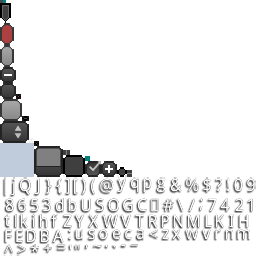
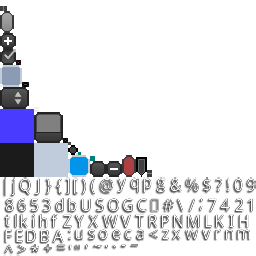
Added tweeting mechanic

diff --git a/core/src/com/martenscedric/Phone.java b/core/src/com/martenscedric/Phone.java
@@ -1,13 +1,16 @@
 package com.martenscedric;
 
 import com.badlogic.gdx.graphics.Texture;
-import com.badlogic.gdx.scenes.scene2d.Actor;
 import com.badlogic.gdx.scenes.scene2d.Stage;
 import com.badlogic.gdx.scenes.scene2d.ui.*;
 import com.badlogic.gdx.utils.Align;
 
+import java.io.BufferedReader;
+import java.io.FileReader;
+import java.io.IOException;
 import java.util.ArrayList;
 import java.util.List;
+import java.util.Random;
 
 import static com.martenscedric.GameManager.HEIGHT;
 import static com.martenscedric.GameManager.WIDTH;
@@ -16,14 +19,57 @@ public class Phone extends ScrollPane
 {
     private GameManager gameManager;
     private Table messageTable;
-    private List<Tweet> tweetList;
+    private List<Tweet> trumpTweets = new ArrayList<>();
+    private List<Tweet> kimTweets = new ArrayList<>();
+
+    private float heat = 0;
+    private float timeSinceLastTweet = 0;
 
     public Phone(GameManager gameManager, Skin skin) {
         super(new Table(skin), skin);
         this.gameManager = gameManager;
         this.messageTable = (Table) getActor();
-        this.tweetList = new ArrayList<>();
         this.setScrollingDisabled(true, false);
+
+        readTweetFile("trump.txt", trumpTweets);
+        readTweetFile("kim.txt", kimTweets);
+    }
+
+    public void update(float delta)
+    {
+        timeSinceLastTweet+=delta;
+        if(new Random().nextInt(60) == 0)
+            System.out.println(heat);
+
+        if(timeSinceLastTweet > 5 - heat * 2)
+        {
+            Author author = Author.values()[new Random().nextInt(2)];
+
+            if(author == Author.TRUMP)
+            {
+                List<Tweet> availableTweets = new ArrayList<>(trumpTweets);
+                availableTweets.removeIf(t -> t.getMinHeat() > heat);
+                System.out.println("Trump has " + availableTweets.size() + " available tweets!");
+
+                Tweet tweet = availableTweets.get(new Random().nextInt(availableTweets.size()));
+                trumpTweets.removeIf(t -> t.getTweetId() == tweet.getTweetId());
+
+                addTweet(tweet);
+                heat+=tweet.getGeneratedHeat();
+            }else{
+                List<Tweet> availableTweets = new ArrayList<>(kimTweets);
+                availableTweets.removeIf(t -> t.getMinHeat() > heat);
+                System.out.println("Kim has " + availableTweets.size() + " available tweets!");
+
+                Tweet tweet = availableTweets.get(new Random().nextInt(availableTweets.size()));
+                kimTweets.removeIf(t -> t.getTweetId() == tweet.getTweetId());
+
+                addTweet(tweet);
+                heat+=tweet.getGeneratedHeat();
+            }
+
+            timeSinceLastTweet = 0;
+        }
     }
 
     public void addTweet(Tweet tweet)
@@ -62,6 +108,7 @@ public class Phone extends ScrollPane
             this.lblText.setWidth(200);
             lblText.setAlignment(Align.bottomLeft);
             lblText.setX(100);
+            lblText.setHeight(lblText.getMinHeight());
         }
 
         @Override
@@ -74,6 +121,27 @@ public class Phone extends ScrollPane
         @Override
         public float getMinHeight() {
             return Math.max(lblText.getPrefHeight() + 50, profilePic.getImageHeight());
+        }
+    }
+
+
+    private void readTweetFile(String filename, List<Tweet> list)
+    {
+        int id = 0;
+        try {
+            BufferedReader br = new BufferedReader(new FileReader(filename));
+            String line = br.readLine();
+
+            while (line != null) {
+                Tweet tweet = new Tweet();
+                tweet.setAuthor(filename.equals("trump.txt") ? Author.TRUMP :Author.KIM);
+                tweet.setContents(line);
+                tweet.setTweetId(id++);
+                list.add(tweet);
+                line = br.readLine();
+            }
+        } catch (IOException e) {
+            e.printStackTrace();
         }
     }
 }

diff --git a/core/src/com/martenscedric/SteemitJam.java b/core/src/com/martenscedric/SteemitJam.java
@@ -3,12 +3,6 @@ package com.martenscedric;
 import com.badlogic.gdx.assets.AssetManager;
 import com.badlogic.gdx.graphics.Texture;
 
-import java.io.BufferedReader;
-import java.io.FileReader;
-import java.io.IOException;
-import java.util.ArrayList;
-import java.util.List;
-
 public class SteemitJam extends SceneManager {
 
 	private AssetManager assetManager;
@@ -24,19 +18,13 @@ public class SteemitJam extends SceneManager {
 		this.assetManager.load("art/phone-cover.png", Texture.class);
 		this.assetManager.load("art/switter-banner.png", Texture.class);
 
-		List<Tweet> trumpTweets = new ArrayList<>();
-		List<Tweet> kimTweets = new ArrayList<>();
-
-		readTweetFile("trump.txt", trumpTweets);
-		readTweetFile("kim.txt", kimTweets);
-
 		this.assetManager.finishLoading();
 
 		GameManager gameManager = new GameManager();
 		gameManager.assetManager = assetManager;
 		gameManager.sceneManager = this;
 
-		this.pushScreen(new PlayScreen(gameManager, trumpTweets, kimTweets));
+		this.pushScreen(new PlayScreen(gameManager));
 	}
 
 	@Override
@@ -47,30 +35,5 @@ public class SteemitJam extends SceneManager {
 	@Override
 	public void dispose () {
 		super.dispose();
-	}
-
-	private void readTweetFile(String filename, List<Tweet> list)
-	{
-		try {
-			BufferedReader br = new BufferedReader(new FileReader(filename));
-			String line = br.readLine();
-
-			while (line != null) {
-				list.add(parseTweet(line, filename.equals("trump.txt") ? Author.TRUMP :Author.KIM));
-				line = br.readLine();
-			}
-		} catch (IOException e) {
-			e.printStackTrace();
-		}
-	}
-
-	private Tweet parseTweet(String contents, Author author)
-	{
-		Tweet tweet = new Tweet();
-		tweet.setAuthor(author);
-		tweet.setContents(contents);
-		tweet.setGeneratedHeat(0);
-		tweet.setMinHeat(0);
-		return tweet;
 	}
 }

diff --git a/core/src/com/martenscedric/PlayScreen.java b/core/src/com/martenscedric/PlayScreen.java
@@ -6,7 +6,6 @@ import com.badlogic.gdx.graphics.GL20;
 import com.badlogic.gdx.graphics.Texture;
 import com.badlogic.gdx.graphics.g2d.Batch;
 import com.badlogic.gdx.graphics.g2d.SpriteBatch;
-import com.badlogic.gdx.scenes.scene2d.ui.ImageButton;
 
 import java.util.List;
 
@@ -16,33 +15,23 @@ import static com.martenscedric.GameManager.WIDTH;
 public class PlayScreen extends StageScreen {
 
     private Batch batch;
-    private Phone phone;
-    private GameManager gameManager;
     private AssetManager assetManager;
+    private Phone phone;
 
-    public PlayScreen(GameManager gameManager, List<Tweet> trumpTweets, List<Tweet> kimTweets) {
+    public PlayScreen(GameManager gameManager) {
         super(gameManager);
-        this.gameManager = gameManager;
         this.assetManager = gameManager.assetManager;
         this.batch = new SpriteBatch();
         this.phone = new Phone(gameManager, Utils.getDefaultSkin());
         this.phone.setX(WIDTH * 0.5f);
         this.phone.setY(HEIGHT/2 - phone.getHeight()/2 -10);
-
-        for(int i = 0; i < trumpTweets.size(); i++)
-        {
-            phone.addTweet(trumpTweets.get(i));
-
-            if(kimTweets.size() > i)
-            {
-                phone.addTweet(kimTweets.get(i));
-            }
-        }
         this.getStage().addActor(phone);
     }
 
     @Override
     public void render(float delta) {
+
+        this.phone.update(delta);
         Gdx.gl.glClearColor(254f/255f, 231f/255f, 97f/255f, 1);
         Gdx.gl.glClear(GL20.GL_COLOR_BUFFER_BIT);
 

diff --git a/core/src/com/martenscedric/Tweet.java b/core/src/com/martenscedric/Tweet.java
@@ -9,7 +9,7 @@ public class Tweet
     private String contents;
     private float generatedHeat;
     private float minHeat;
-
+    private int tweetId;
 
     public Author getAuthor() {
         return author;
@@ -24,7 +24,11 @@ public class Tweet
     }
 
     public void setContents(String contents) {
-        this.contents = contents;
+        String[] tweetContents = contents.split("\\[");
+        String[] values = tweetContents[1].split(",");
+        minHeat = Float.parseFloat(values[0]);
+        generatedHeat = Float.parseFloat(values[1].substring(0, values[1].length() -1));
+        this.contents = tweetContents[0];
     }
 
     public float getGeneratedHeat() {
@@ -41,5 +45,28 @@ public class Tweet
 
     public void setMinHeat(float minHeat) {
         this.minHeat = minHeat;
+    }
+
+    public int getTweetId() {
+        return tweetId;
+    }
+
+    public void setTweetId(int tweetId) {
+        this.tweetId = tweetId;
+    }
+
+    @Override
+    public boolean equals(Object o) {
+        if (this == o) return true;
+        if (o == null || getClass() != o.getClass()) return false;
+
+        Tweet tweet = (Tweet) o;
+
+        return tweetId == tweet.tweetId;
+    }
+
+    @Override
+    public int hashCode() {
+        return tweetId;
     }
 }
